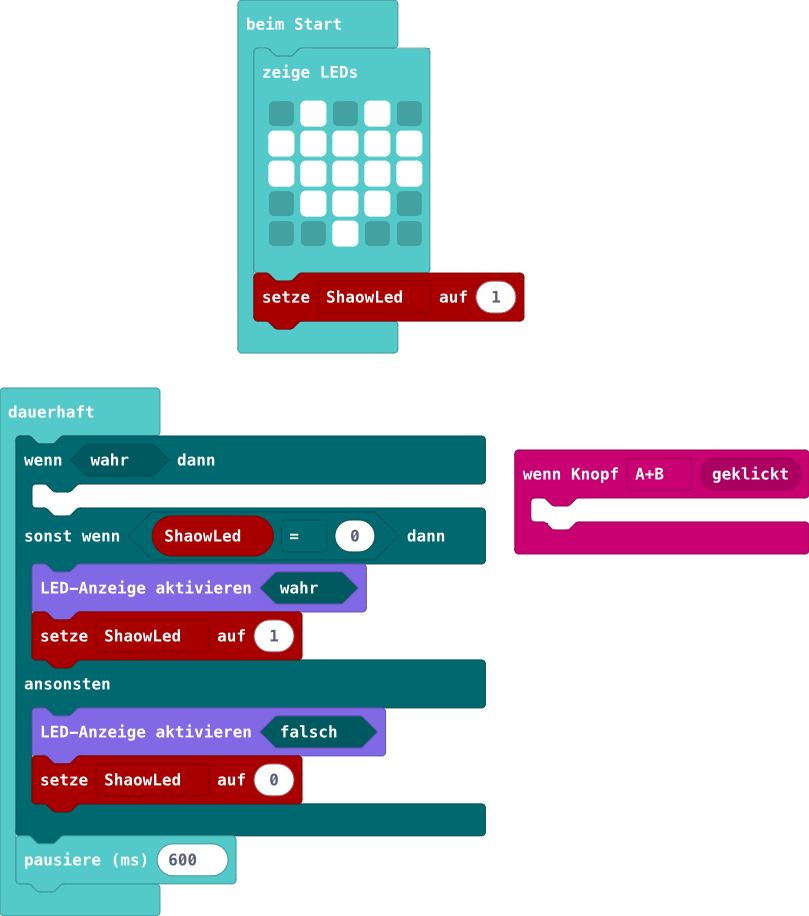
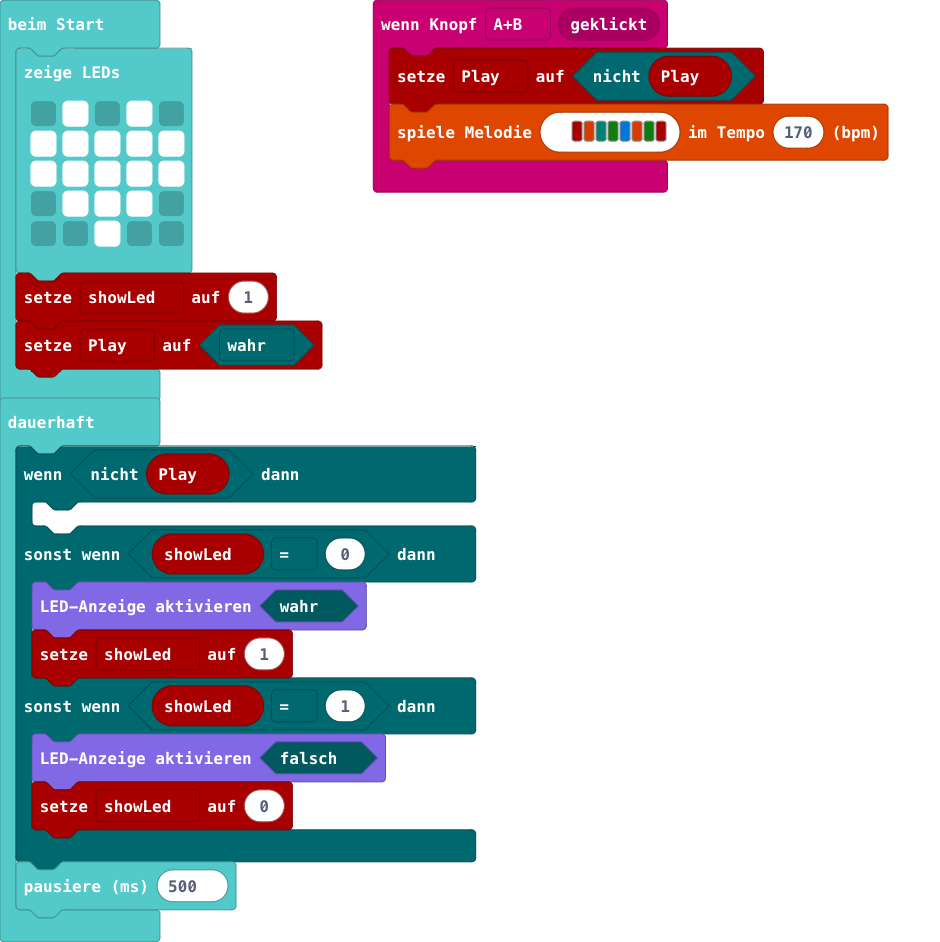
Aktualisiere pxt.json, main.blocks, main.ts

diff --git a/main.ts b/main.ts
@@ -1,6 +1,8 @@
 input.onButtonEvent(Button.AB, input.buttonEventClick(), function () {
-
+    Play = !(Play)
+    music.playMelody("C5 B F G E B G C5 ", 170)
 })
+let Play = false
 basic.showLeds(`
     . # . # .
     # # # # #
@@ -9,9 +11,10 @@ basic.showLeds(`
     . . # . .
     `)
 let showLed = 1
+Play = true
 basic.forever(function () {
-    if (true) {
-
+    if (!(Play)) {
+    	
     } else if (showLed == 0) {
         led.enable(true)
         showLed = 1
